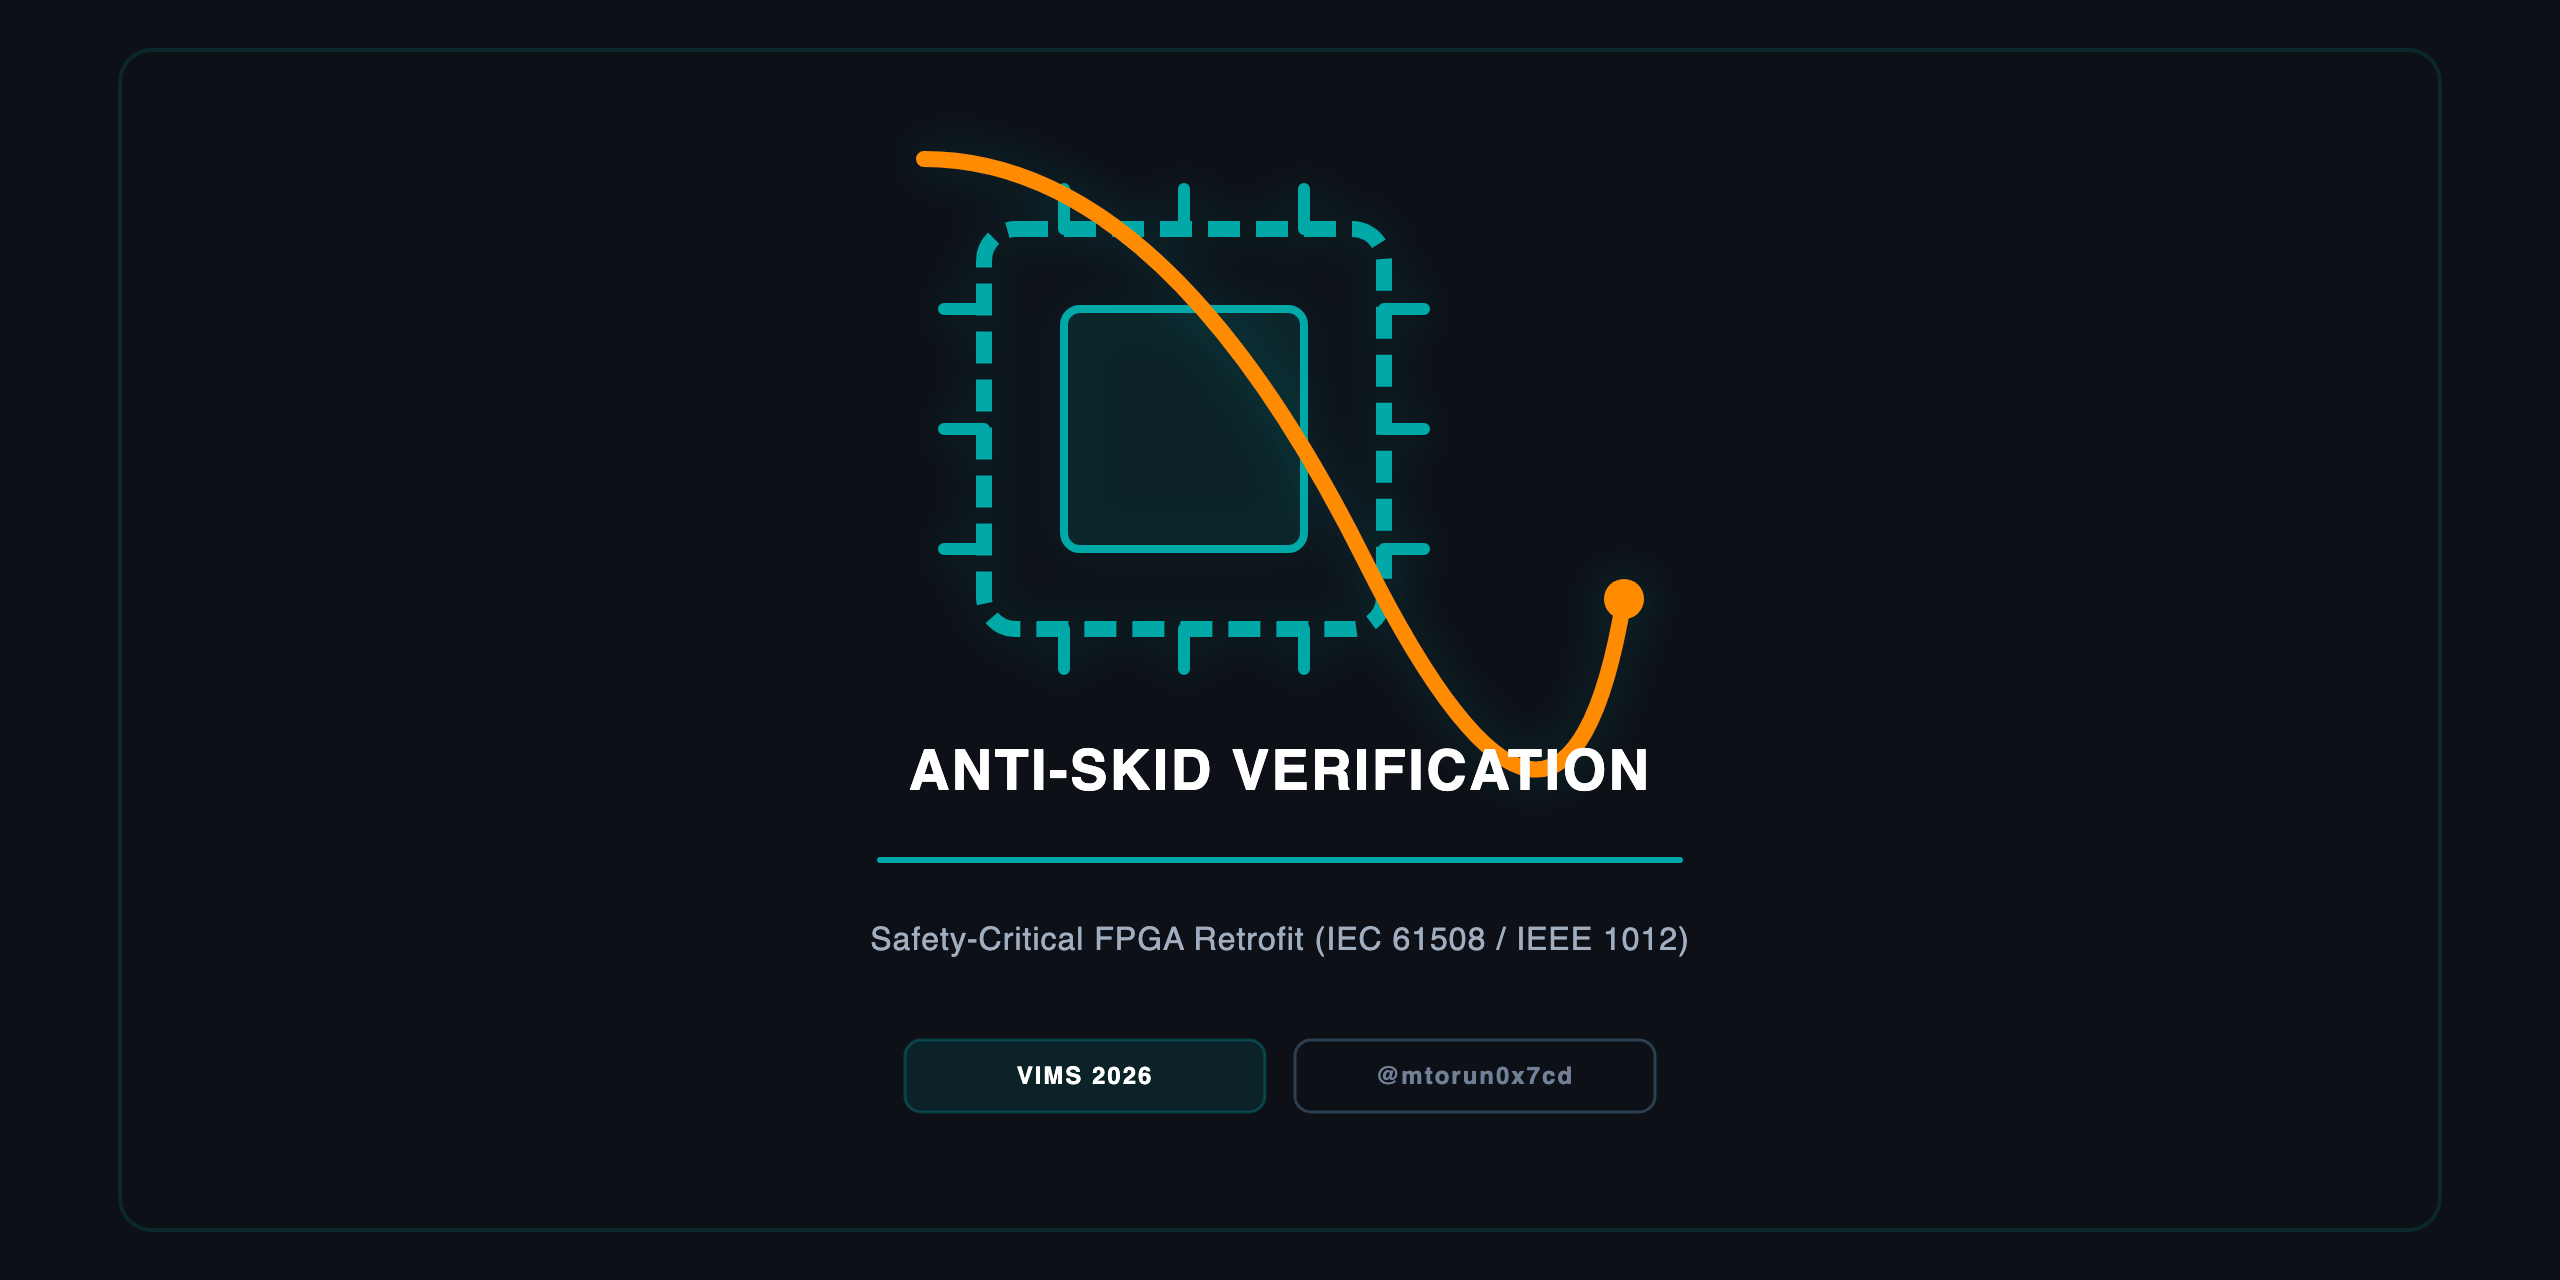
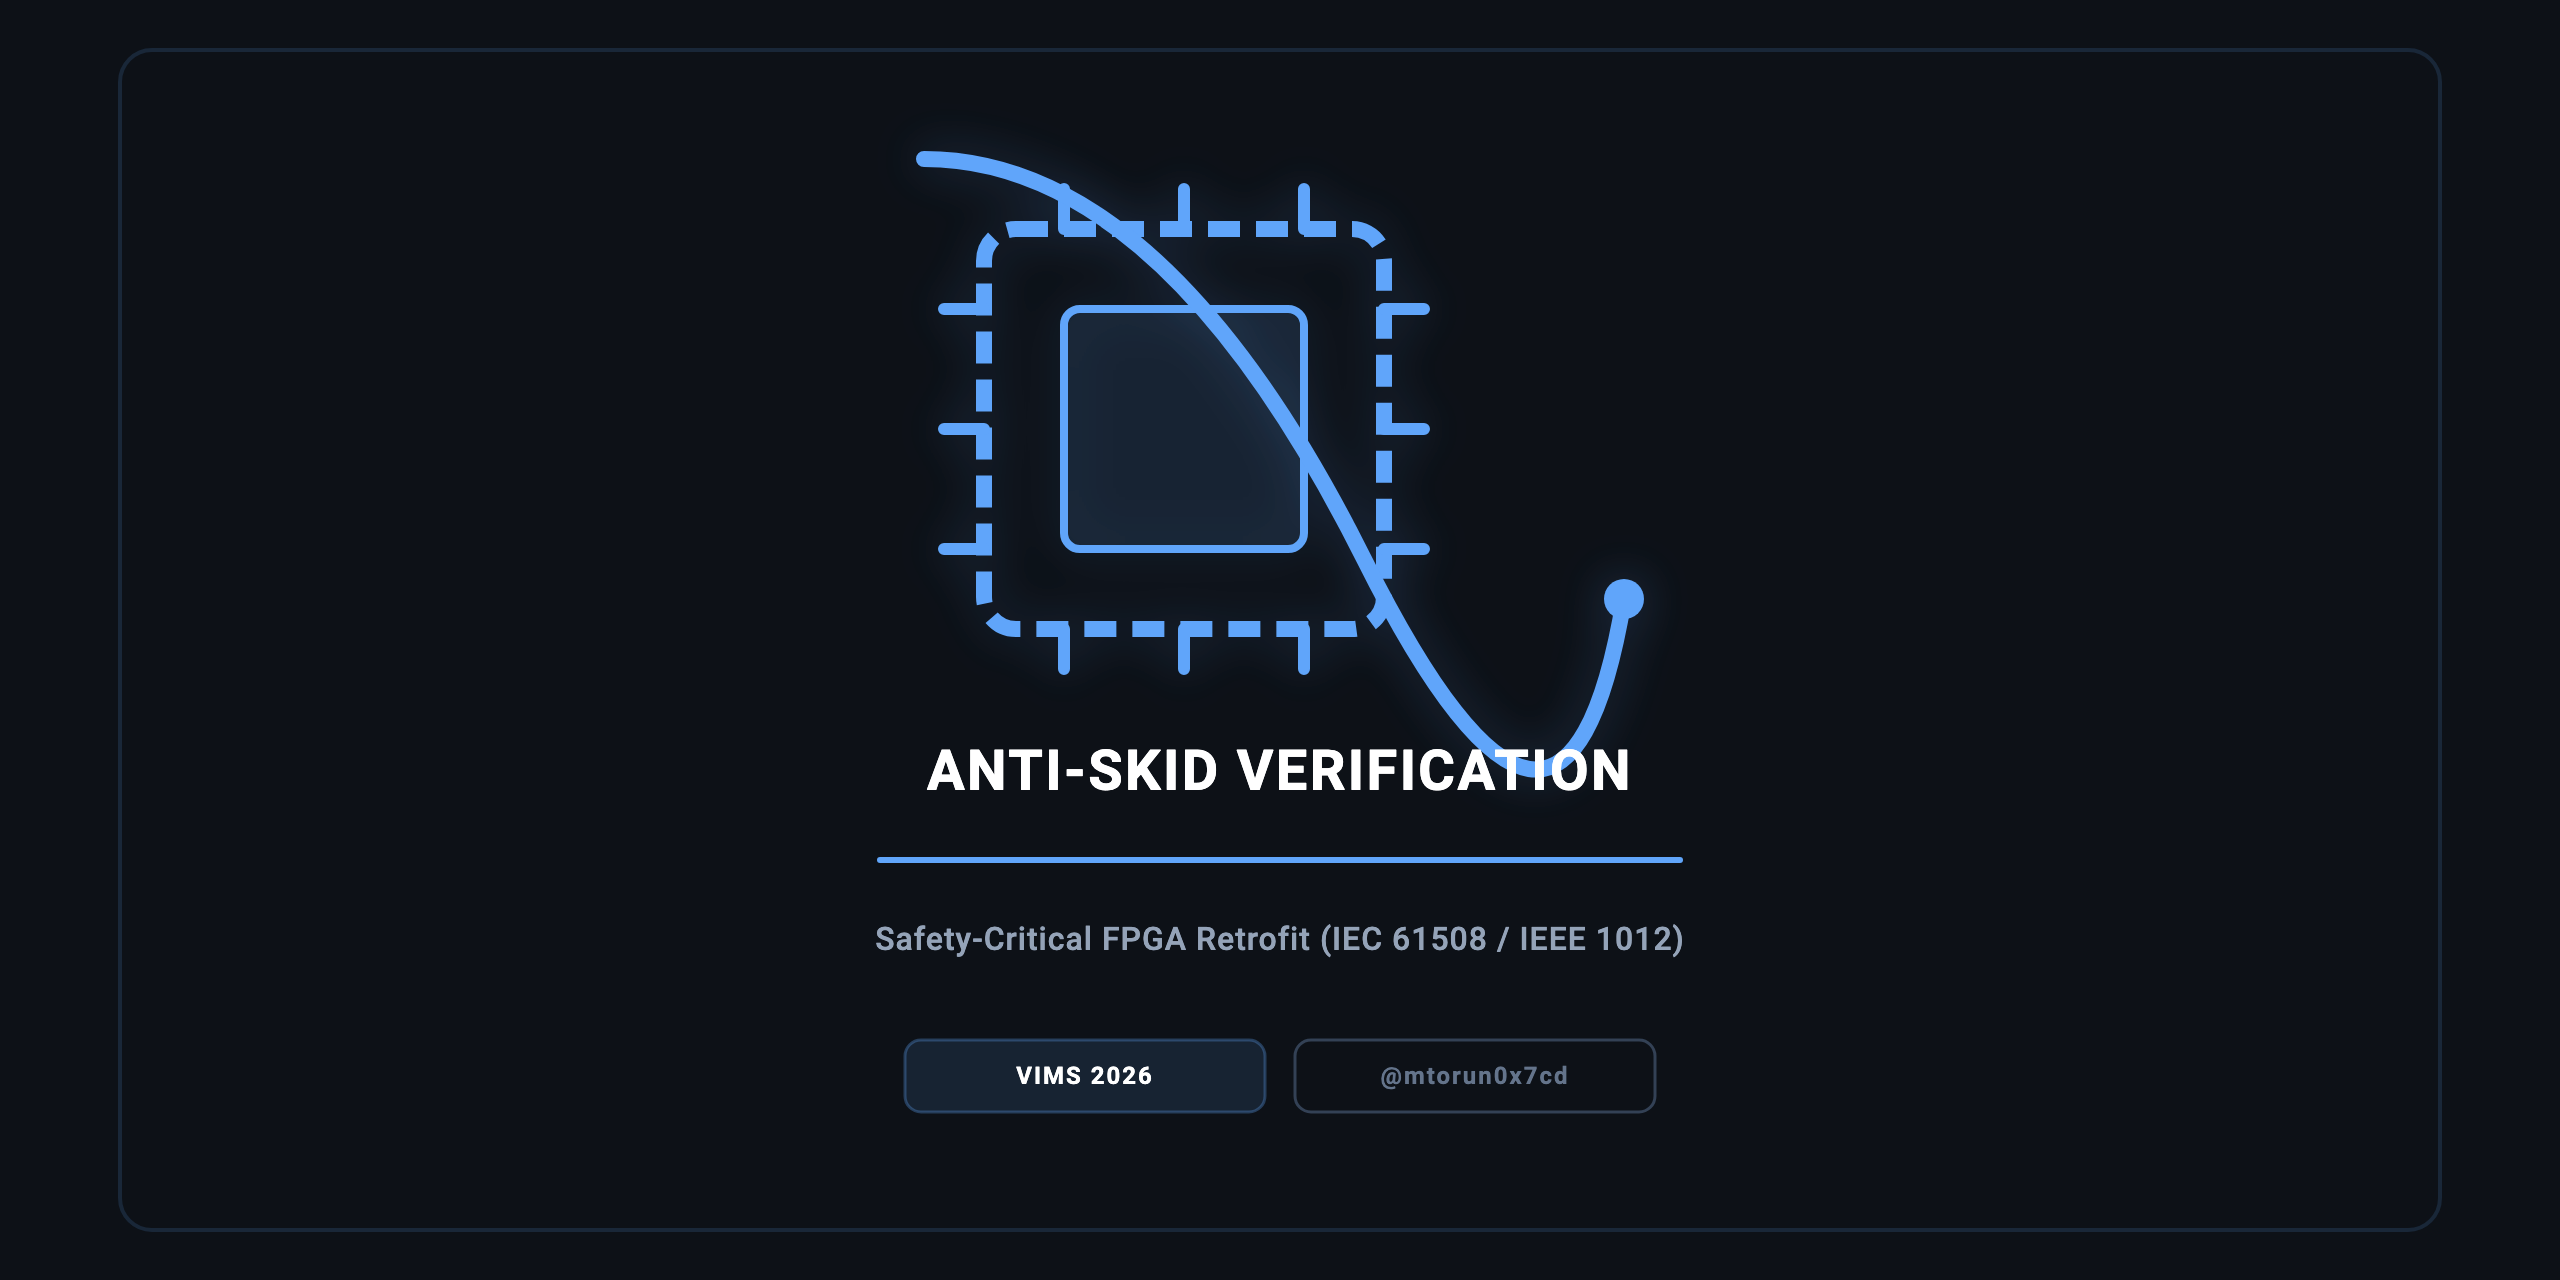
docs: recolour the diagram and social preview to the brand accent
Replace the IEEE-blue diagram theme and the teal/orange preview palette with the single brand accent (#2563EB light, #60A5FA dark) and Slate neutrals; regenerate the social-preview PNGs from the SVG.

diff --git a/README.md b/README.md
@@ -110,7 +110,7 @@ The methodology maps to the right side of the V-model through two complementary 
 **Layer 2 — Scenario-Based System-Level Testing** targets system and acceptance testing: black-box validation of the fully integrated system against original functional requirements using a dedicated hardware test fixture ("Testkartentester").
 
 ```mermaid
-%%{init: {'theme': 'base', 'themeVariables': { 'primaryColor': '#E1F0F7', 'edgeColor': '#00629B', 'primaryBorderColor': '#00629B', 'lineColor': '#00629B', 'textColor': '#083A5A' }}}%%
+%%{init: {'theme': 'base', 'themeVariables': { 'primaryColor': '#EFF6FF', 'edgeColor': '#2563EB', 'primaryBorderColor': '#2563EB', 'lineColor': '#2563EB', 'textColor': '#0F172A' }}}%%
 graph LR
     Host["Host PC<br/>Python / YAML"] <-->|USB / Serial| STM["STM32 Nucleo<br/>F401RE"]
     STM <-->|GPIO| Fix["Test Fixture<br/>Testkartentester"]